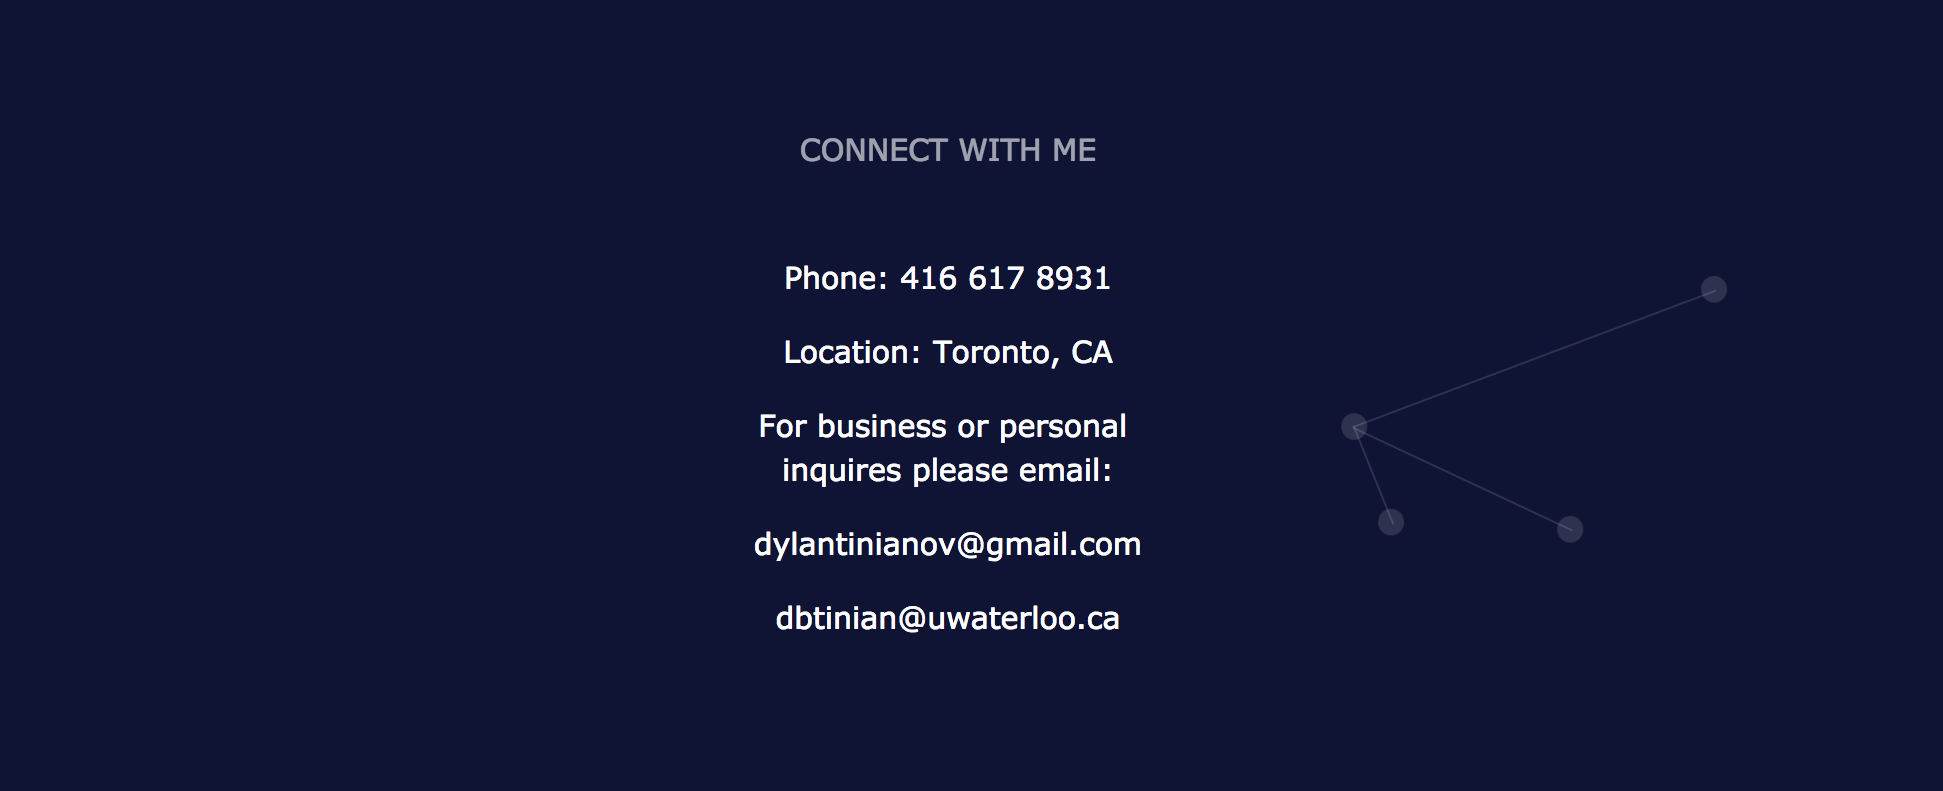
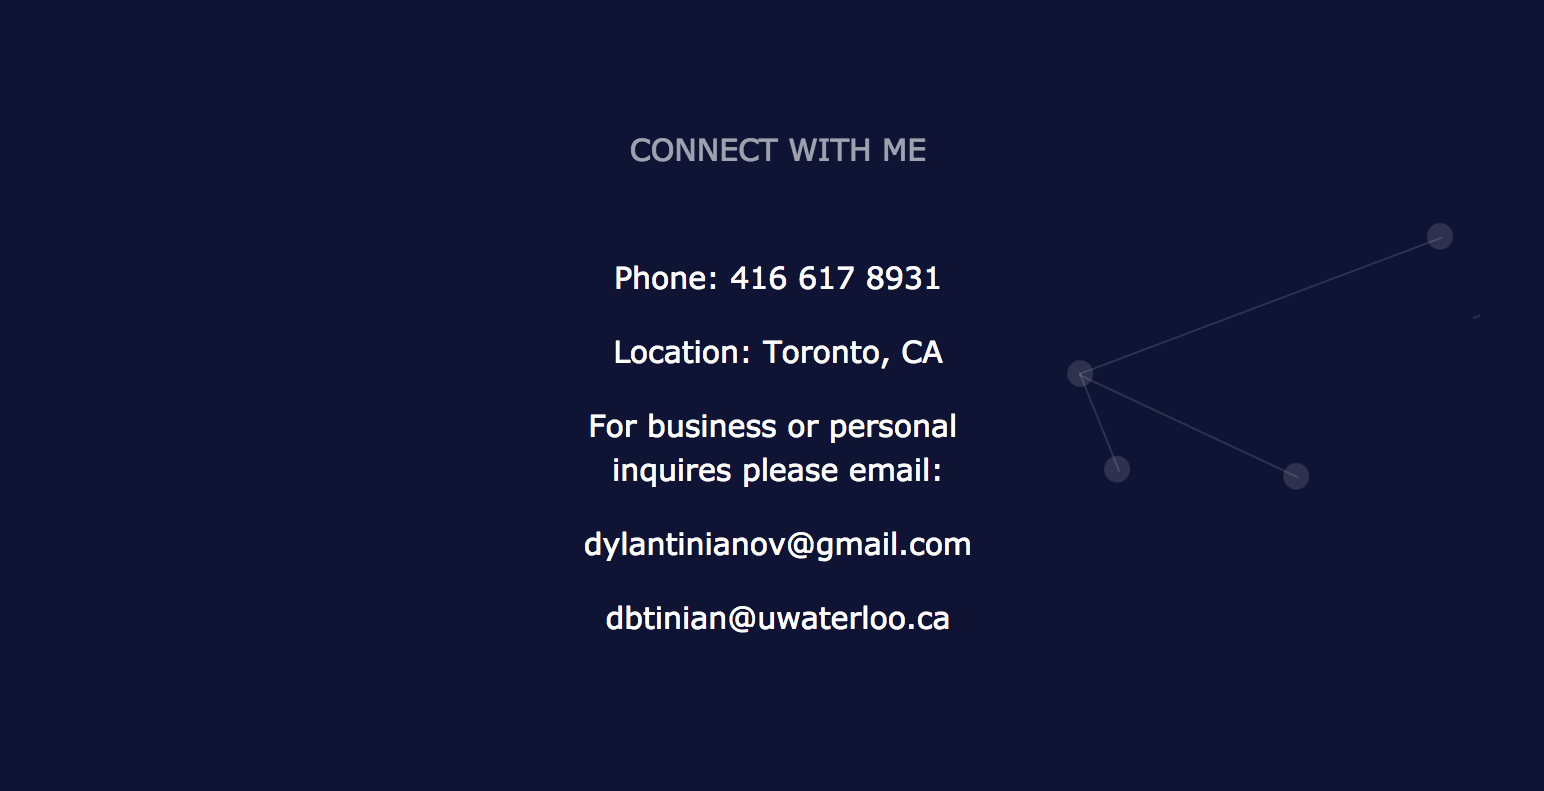
Fixed sizing

diff --git a/index_mobile.html b/index_mobile.html
@@ -29,9 +29,10 @@
         <img class="center_logo" src="./images/music_mobile.png" style="width:100%" />
 
         <h3 class='w3-wide center fat-font'>Contact</h3>
-    </div>
-    <div class="w3-row dark_second w3-center">
         <img class="center_logo" src="./images/contact_mobile.png" style="width:100%" />
+    </div>
+
+    <div class="w3-row w3-black border2 w3-center">
         <a href="./images/MyResume.pdf" target="_blank" style="text-decoration: none">
             <p><button class="w3-btn w3-white w3-small">Résumé</button></p>
         </a>
